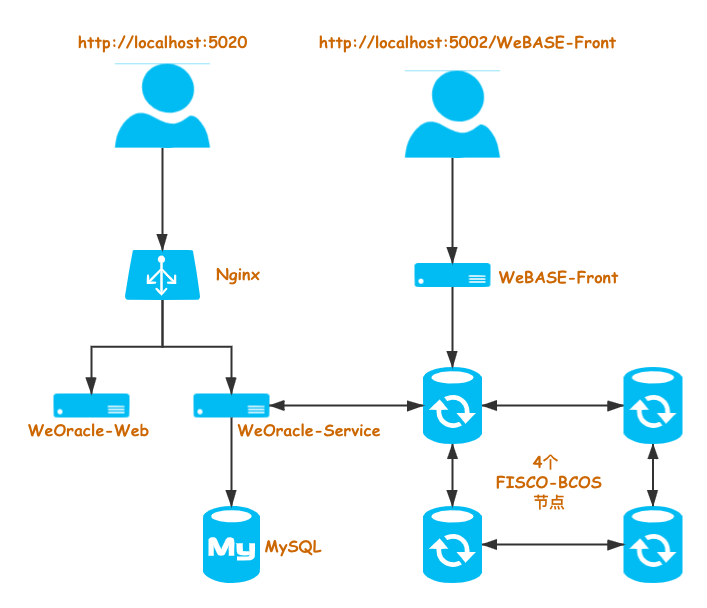
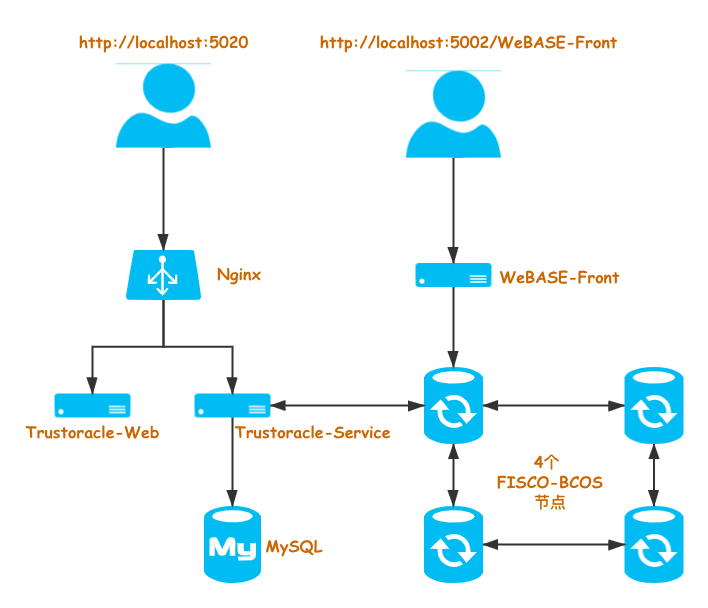
fix trustoracle-docker-deploy.png

diff --git a/docs/TrustOracle-Install/docker-all.md b/docs/TrustOracle-Install/docker-all.md
@@ -19,7 +19,7 @@
 
 部署后的架构如下：
 
-![TrustOracle-Docker-deploy](../../images/TrustOracle-Docker-Deploy.png)
+![trustoracle-docker-deploy](../../images/trustoracle-docker-deploy.png)
 
 
 * **WeBASE-Front**
